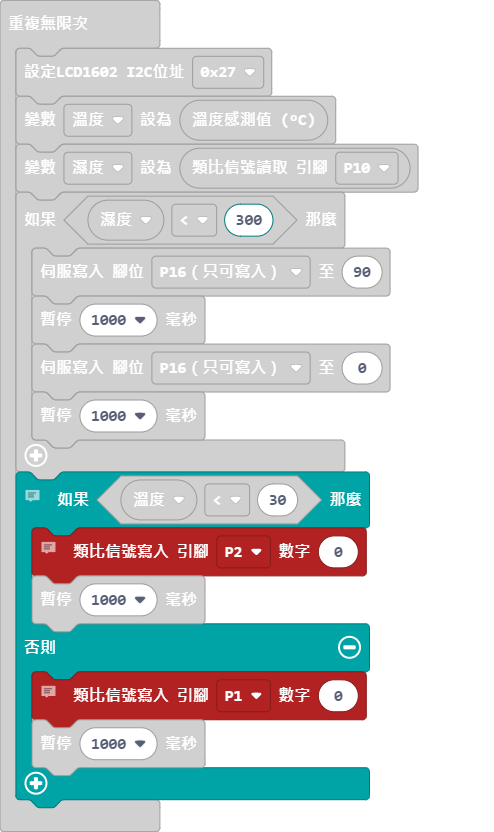
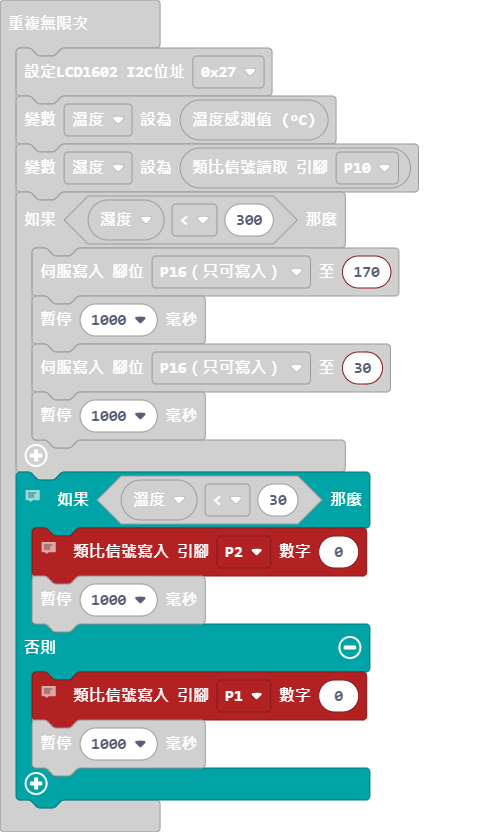
更新 main.blocks, main.ts

diff --git a/main.ts b/main.ts
@@ -14,9 +14,9 @@ basic.forever(function () {
     溫度 = input.temperature()
     濕度 = pins.analogReadPin(AnalogPin.P10)
     if (濕度 < 300) {
-        pins.servoWritePin(AnalogPin.P16, 90)
+        pins.servoWritePin(AnalogPin.P16, 170)
         basic.pause(1000)
-        pins.servoWritePin(AnalogPin.P16, 0)
+        pins.servoWritePin(AnalogPin.P16, 30)
         basic.pause(1000)
     }
     // 預計會開燈，增加溫度
